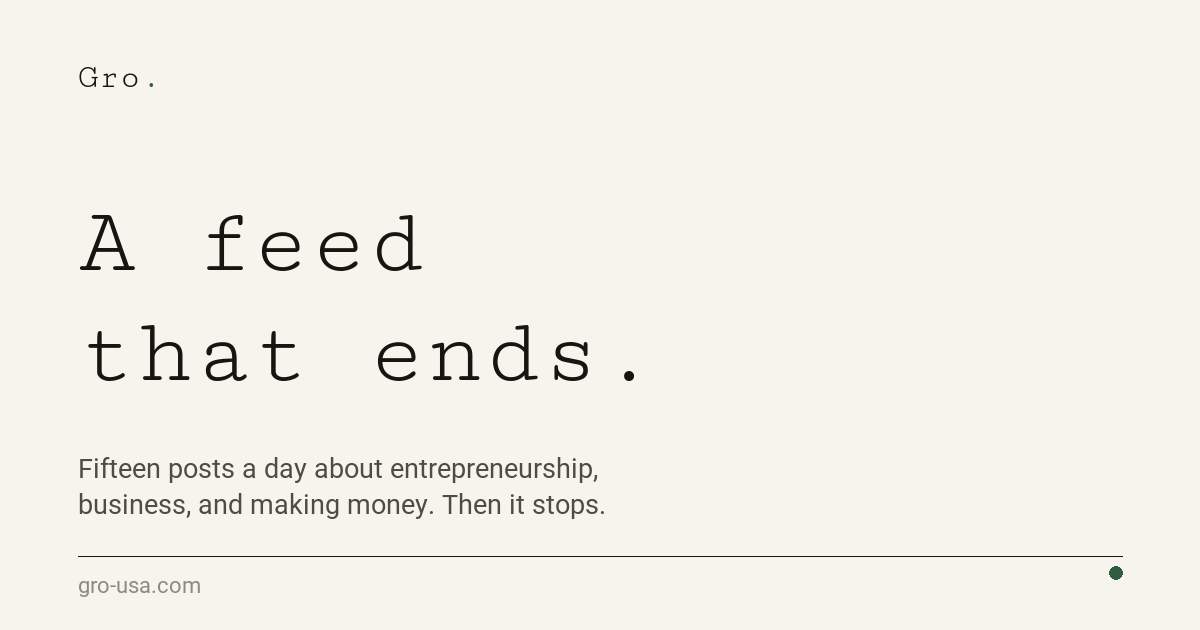
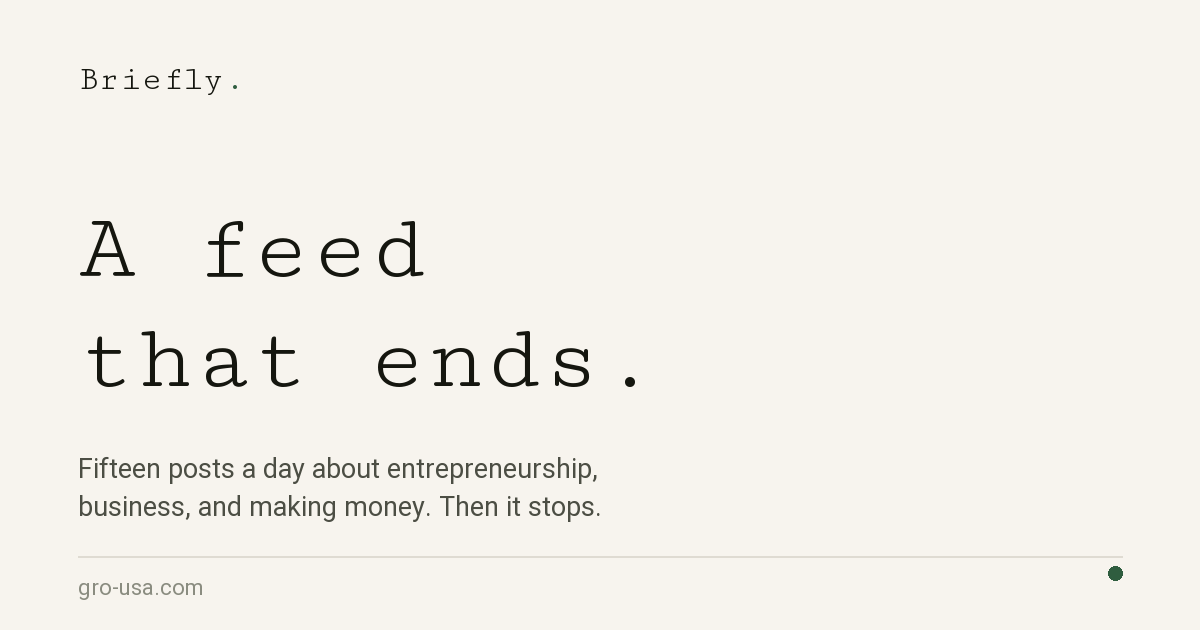
Rename the product from Gro to Briefly
Renames the brand everywhere it is read: site name and page titles,
the homepage copy, the terms and privacy text, the waitlist note,
image alt text, the confirmation email, and the docs. 61 references
in all.

Deliberately not renamed, because these are live infrastructure and
renaming them breaks things rather than rebranding them: the
gro-usa.com domain and CNAME, gro.foundation26@gmail.com, the
gro-waitlist Worker and its grolaunch.workers.dev endpoint, and the
gro:waitlist-joined localStorage key — changing that last one would
make everyone who already signed up see the form again.

The social card and favicon are regenerated from the site's own
fonts. The favicon is "B." rather than "Briefly.", which would not
be legible at 16px.

diff --git a/src/content/terms.html b/src/content/terms.html
@@ -3,8 +3,8 @@
   <p class="meta">Last updated September 9, 2026</p>
     <section>
       <h2>Who this is between</h2>
-      <p>You and Camden Brown and Kasen Afflerbach, the two people who make Gro. &quot;We&quot; and &quot;us&quot; means them.</p>
-      <p>Making an account or using the app means you agree to this. If you do not, that is completely fine — just do not use Gro.</p>
+      <p>You and Camden Brown and Kasen Afflerbach, the two people who make Briefly. &quot;We&quot; and &quot;us&quot; means them.</p>
+      <p>Making an account or using the app means you agree to this. If you do not, that is completely fine — just do not use Briefly.</p>
     </section>
     <section>
       <h2>How old you have to be</h2>
@@ -19,14 +19,14 @@
       </ul>
     </section>
     <section>
-      <h2>What Gro is</h2>
+      <h2>What Briefly is</h2>
       <p>A short feed of cards from a small number of people who are building things, which then ends. The ending is the point.</p>
       <p>Only accounts we have specifically given posting rights to can post. There is no way to apply and no queue you are in — not being able to post is how it is meant to work, not a fault.</p>
       <p>We might change how the app works, add things, take things away, or stop running it altogether. We are not going to dress this up as a service with guarantees behind it: it is free, it is early, and it will sometimes break.</p>
     </section>
     <section>
       <h2>What not to post</h2>
-      <p>This covers everything you put into Gro — comments, your name, your bio, your photo, and posts. Do not use it for:</p>
+      <p>This covers everything you put into Briefly — comments, your name, your bio, your photo, and posts. Do not use it for:</p>
       <ul>
         <li>Harassment, bullying, hate speech, or slurs aimed at anyone — including for their race, ethnicity, where they are from, religion, disability, sex, gender identity or sexuality.</li>
         <li>Threats, or anything encouraging violence or self-harm.</li>
@@ -41,7 +41,7 @@
     </section>
     <section>
       <h2>None of this is financial advice</h2>
-      <p>Gro is people describing what happened to them while trying to build something. That is experience. It is not advice.</p>
+      <p>Briefly is people describing what happened to them while trying to build something. That is experience. It is not advice.</p>
       <p>Nothing here is financial, investment, tax, legal or business advice, and nobody posting is your adviser. What you do with your money is your decision and your risk. If it is a decision that matters, talk to someone qualified — genuinely.</p>
     </section>
     <section>
@@ -53,12 +53,12 @@
     <section>
       <h2>What you post stays yours</h2>
       <p>You own what you write and what you upload. You are not signing it over to us and we will never claim it.</p>
-      <p>You do give us permission to store it, show it inside Gro, and make the copies that requires — a resized photo, a still from the first frame of a video. That permission costs nothing, exists only so the app can display your own post back to you and to other people, and ends when you delete the post or your account.</p>
-      <p>You are confirming that what you post is yours to post, and that showing it in Gro does not tread on anybody else’s rights.</p>
+      <p>You do give us permission to store it, show it inside Briefly, and make the copies that requires — a resized photo, a still from the first frame of a video. That permission costs nothing, exists only so the app can display your own post back to you and to other people, and ends when you delete the post or your account.</p>
+      <p>You are confirming that what you post is yours to post, and that showing it in Briefly does not tread on anybody else’s rights.</p>
     </section>
     <section>
       <h2>If someone copies your work</h2>
-      <p>If something in Gro infringes your copyright, email gro.foundation26@gmail.com and tell us: what the work is, where in the app the copy is, your contact details, and a statement that you believe in good faith it is not authorised and that what you are telling us is accurate.</p>
+      <p>If something in Briefly infringes your copyright, email gro.foundation26@gmail.com and tell us: what the work is, where in the app the copy is, your contact details, and a statement that you believe in good faith it is not authorised and that what you are telling us is accurate.</p>
       <p>We will look at it and take down anything that should not be there. We can also remove accounts that keep doing it. If your post was removed and you think that was wrong, reply to us and say so — a person reads it, not a system.</p>
     </section>
     <section>
@@ -67,40 +67,40 @@
     </section>
     <section>
       <h2>Our side of it</h2>
-      <p>The app itself — the name, the design, the code, the words we wrote — is ours. Using Gro does not give you the right to take any of that and use it somewhere else.</p>
+      <p>The app itself — the name, the design, the code, the words we wrote — is ours. Using Briefly does not give you the right to take any of that and use it somewhere else.</p>
     </section>
     <section>
       <h2>Ending it</h2>
       <p>You can leave whenever you like: You tab, then Delete my account. It removes your account and everything attached to it, and there is no undo.</p>
-      <p>We can end your access if you break these rules, or if we stop running Gro. When we remove an account, its posts and comments go with it — we do not keep the content of someone we have removed.</p>
-      <p>If we shut Gro down we will try to give you warning. A free app made by two people is not in a position to promise you a notice period, and promising one we might not manage would be worth less than saying this.</p>
+      <p>We can end your access if you break these rules, or if we stop running Briefly. When we remove an account, its posts and comments go with it — we do not keep the content of someone we have removed.</p>
+      <p>If we shut Briefly down we will try to give you warning. A free app made by two people is not in a position to promise you a notice period, and promising one we might not manage would be worth less than saying this.</p>
     </section>
     <section>
       <h2>What we do not promise</h2>
-      <p>Gro comes as it is. We do not promise it will be available, correct, uninterrupted, or right for whatever you have in mind, and we are disclaiming the warranties the law lets us disclaim.</p>
+      <p>Briefly comes as it is. We do not promise it will be available, correct, uninterrupted, or right for whatever you have in mind, and we are disclaiming the warranties the law lets us disclaim.</p>
       <p>We do not check whether what other people post is true. What is in a post belongs to whoever posted it, not to us.</p>
     </section>
     <section>
       <h2>Where our responsibility stops</h2>
-      <p>As far as the law allows: we are not liable for indirect, incidental, special or knock-on losses, or for lost profits, lost opportunities or lost data, from your use of Gro.</p>
-      <p>Where liability cannot be excluded at all, it is capped at whichever is greater — what you have paid us, which is nothing, because Gro is free — or ten US dollars.</p>
+      <p>As far as the law allows: we are not liable for indirect, incidental, special or knock-on losses, or for lost profits, lost opportunities or lost data, from your use of Briefly.</p>
+      <p>Where liability cannot be excluded at all, it is capped at whichever is greater — what you have paid us, which is nothing, because Briefly is free — or ten US dollars.</p>
       <p>Some places do not allow limits like these. If you are in one of them, they do not apply to you, and nothing here takes away a right you have that cannot be signed away.</p>
     </section>
     <section>
       <h2>If you get us into trouble</h2>
-      <p>If something you post or do in Gro lands us with a legal claim from someone else — you posted something that was not yours, or you used the app to do something you should not have — you agree to cover us for it.</p>
+      <p>If something you post or do in Briefly lands us with a legal claim from someone else — you posted something that was not yours, or you used the app to do something you should not have — you agree to cover us for it.</p>
       <p>This is not aimed at ordinary use. Nobody is coming after you for a comment somebody disagreed with.</p>
     </section>
     <section>
       <h2>What Apple has to do with this</h2>
-      <p>If you got Gro from the App Store, Apple asks us to spell this out, and it is worth knowing anyway:</p>
+      <p>If you got Briefly from the App Store, Apple asks us to spell this out, and it is worth knowing anyway:</p>
       <ul>
-        <li>This agreement is between you and us. It is not with Apple, and Apple is not responsible for Gro or anything in it.</li>
-        <li>Your licence to use Gro covers Apple-branded devices you own or control, under Apple’s usage rules.</li>
-        <li>Apple has no obligation to provide any support or maintenance for Gro. If you need help, come to us.</li>
-        <li>If Gro fails to work as promised, you can tell Apple and Apple will refund what you paid for it — which is nothing. Beyond that refund, Apple has no warranty obligation, and anything else is down to us.</li>
+        <li>This agreement is between you and us. It is not with Apple, and Apple is not responsible for Briefly or anything in it.</li>
+        <li>Your licence to use Briefly covers Apple-branded devices you own or control, under Apple’s usage rules.</li>
+        <li>Apple has no obligation to provide any support or maintenance for Briefly. If you need help, come to us.</li>
+        <li>If Briefly fails to work as promised, you can tell Apple and Apple will refund what you paid for it — which is nothing. Beyond that refund, Apple has no warranty obligation, and anything else is down to us.</li>
         <li>We, not Apple, are responsible for dealing with any claim about the app: product liability, a legal or regulatory problem, or consumer protection.</li>
-        <li>We, not Apple, are responsible if someone claims Gro infringes their intellectual property.</li>
+        <li>We, not Apple, are responsible if someone claims Briefly infringes their intellectual property.</li>
         <li>You confirm you are not in a country the US has embargoed or designated as supporting terrorism, and are not on a US list of prohibited or restricted parties.</li>
         <li>Questions or complaints about the app go to gro.foundation26@gmail.com.</li>
         <li>Apple and its subsidiaries can enforce these terms against you as a third-party beneficiary of them.</li>
@@ -117,19 +117,19 @@
       <ul>
         <li>If a court decides one part of this does not hold up, the rest still does. The unenforceable bit gets narrowed to whatever is allowed, and everything else carries on.</li>
         <li>If we do not enforce something straight away, we have not given up the right to enforce it later.</li>
-        <li>If Gro is sold or handed on, this agreement goes with it. You cannot transfer yours to someone else.</li>
-        <li>This page and the Privacy Policy are the whole agreement between us about Gro, and they replace anything either of us said before.</li>
+        <li>If Briefly is sold or handed on, this agreement goes with it. You cannot transfer yours to someone else.</li>
+        <li>This page and the Privacy Policy are the whole agreement between us about Briefly, and they replace anything either of us said before.</li>
       </ul>
     </section>
     <section>
       <h2>When this page changes</h2>
-      <p>Last updated September 9, 2026. If we change these terms the date changes with them and the copy in the app updates at the same time. Carrying on using Gro after a change means you are fine with the new version; if you are not, delete your account and nothing is held against you.</p>
+      <p>Last updated September 9, 2026. If we change these terms the date changes with them and the copy in the app updates at the same time. Carrying on using Briefly after a change means you are fine with the new version; if you are not, delete your account and nothing is held against you.</p>
     </section>
     <section>
       <h2>Talk to us</h2>
       <p>gro.foundation26@gmail.com — it reaches both of us.</p>
     </section>
   <footer>
-    Gro is operated by Camden Brown and Kasen Afflerbach. This page is also available inside
+    Briefly is operated by Camden Brown and Kasen Afflerbach. This page is also available inside
     the app, under You.
   </footer>

diff --git a/src/content/privacy.html b/src/content/privacy.html
@@ -1,16 +1,16 @@
 <h1>Privacy Policy</h1>
-  <p class="summary">What Gro knows about you, who else sees it, and how to get rid of it.</p>
+  <p class="summary">What Briefly knows about you, who else sees it, and how to get rid of it.</p>
   <p class="meta">Last updated September 9, 2026</p>
     <section>
       <h2>The short version</h2>
-      <p>Gro is a small app made by two people, Camden Brown and Kasen Afflerbach. We collect what the app needs to work, and nothing else.</p>
+      <p>Briefly is a small app made by two people, Camden Brown and Kasen Afflerbach. We collect what the app needs to work, and nothing else.</p>
       <p>No ads. No analytics. Nothing in the app follows you around or reports back on what you looked at. We have never sold anyone’s information and we are not going to start.</p>
       <p>You can delete your account, and everything attached to it, from inside the app whenever you want. It takes two taps and there is no &quot;are you sure you want to lose all this&quot; guilt trip.</p>
       <p>The rest of this page is the detail. It is longer than the summary because being specific is the only way to be honest, not because there is a catch buried in it.</p>
     </section>
     <section>
       <h2>Who we are</h2>
-      <p>Gro is run by Camden Brown and Kasen Afflerbach, based in Texas, in the United States. Write to us at gro.foundation26@gmail.com — it reaches both of us, and the same address is on the You tab in the app.</p>
+      <p>Briefly is run by Camden Brown and Kasen Afflerbach, based in Texas, in the United States. Write to us at gro.foundation26@gmail.com — it reaches both of us, and the same address is on the You tab in the app.</p>
       <p>We decide what happens to your information, which also makes us the two people responsible for it. There is no team behind us and no support desk. If something is wrong, you are emailing the people who can fix it.</p>
     </section>
     <section>
@@ -53,7 +53,7 @@
       <p>That is the whole of it. We do not know where you are — the app never asks for your location and there is no code in it that could work it out. We do not read your contacts, your calendar, your photo library beyond the files you pick, or anything else on your phone.</p>
     </section>
     <section>
-      <h2>What Gro keeps on your phone</h2>
+      <h2>What Briefly keeps on your phone</h2>
       <p>Three small things live on your device rather than on our servers:</p>
       <ul>
         <li>A sign-in token, so you are not asked for your password every time you open the app.</li>
@@ -64,13 +64,13 @@
     </section>
     <section>
       <h2>Who can see what</h2>
-      <p>Anyone signed in to Gro can see your name, your photo, your bio, your comments and — if you are one of the two accounts that post — your posts. Treat all of that as public, because it is.</p>
+      <p>Anyone signed in to Briefly can see your name, your photo, your bio, your comments and — if you are one of the two accounts that post — your posts. Treat all of that as public, because it is.</p>
       <p>Your email address is never shown to another user. Your password is never shown to anyone, us included. The answers you gave when you signed up are not on your profile.</p>
       <p>None of it is visible without an account. There is no public web page with your profile or your posts on it, and search engines have nothing of yours to find.</p>
     </section>
     <section>
       <h2>The companies that help us run it</h2>
-      <p>We use a handful of services to run Gro. Each one gets only the part it needs, is not allowed to use it for anything of its own, and is required by its agreement with us to protect it at least as well as this policy promises.</p>
+      <p>We use a handful of services to run Briefly. Each one gets only the part it needs, is not allowed to use it for anything of its own, and is required by its agreement with us to protect it at least as well as this policy promises.</p>
       <ul>
         <li>Supabase — runs the database, the sign-in system and the file storage. It holds everything listed above. The data sits in the United States, in Amazon Web Services’ Oregon region.</li>
         <li>Resend — sends the account emails. It gets your email address and what is in the message, such as a sign-in code.</li>
@@ -78,16 +78,16 @@
         <li>Apple and Google — distribute the app through their stores. What they collect as the shop you downloaded it from is covered by their policies, not ours.</li>
       </ul>
       <p>That is the complete list. Nobody else gets your information: no advertisers, no data brokers, no &quot;partners&quot;. We do not sell it and we do not trade it.</p>
-      <p>If Gro is ever sold or handed on, whoever takes it over would be bound by this policy until they told you otherwise, and we would tell you before it happened.</p>
+      <p>If Briefly is ever sold or handed on, whoever takes it over would be bound by this policy until they told you otherwise, and we would tell you before it happened.</p>
     </section>
     <section>
       <h2>We do not track you</h2>
-      <p>Nothing in Gro links what you do here to anything you do anywhere else. There are no advertising identifiers, no tracking pixels, no analytics tools, and no data brokers involved at any point.</p>
+      <p>Nothing in Briefly links what you do here to anything you do anywhere else. There are no advertising identifiers, no tracking pixels, no analytics tools, and no data brokers involved at any point.</p>
       <p>That is why the app never shows you the &quot;allow tracking?&quot; prompt. There would be nothing to ask about.</p>
     </section>
     <section>
       <h2>Where your information lives</h2>
-      <p>On servers in the United States. If you are using Gro from somewhere else — the United Kingdom, the European Union, anywhere — your information is being sent to and stored in the US, where the privacy laws are not the same as the ones at home.</p>
+      <p>On servers in the United States. If you are using Briefly from somewhere else — the United Kingdom, the European Union, anywhere — your information is being sent to and stored in the US, where the privacy laws are not the same as the ones at home.</p>
       <p>We do not have a legal office or an international data transfer department. What we can tell you is exactly what is collected, exactly where it goes, and how to remove it, which is what this page is for.</p>
     </section>
     <section>
@@ -136,12 +136,12 @@
     </section>
     <section>
       <h2>If you are under 18</h2>
-      <p>You need to be at least 13 to use Gro. If you live somewhere that sets a higher age for signing up to something like this without a parent, that age applies to you instead.</p>
+      <p>You need to be at least 13 to use Briefly. If you live somewhere that sets a higher age for signing up to something like this without a parent, that age applies to you instead.</p>
       <p>We do not knowingly collect anything from anyone under 13. If we find out an account belongs to someone younger, we delete it and everything attached to it. If you think a child has an account here, email gro.foundation26@gmail.com and we will deal with it quickly.</p>
     </section>
     <section>
       <h2>Links to other places</h2>
-      <p>A profile can carry a website link, and posts can mention things. Tapping one takes you off Gro and onto somebody else’s site, which has its own rules and its own privacy policy. We have no control over those and we are not responsible for them.</p>
+      <p>A profile can carry a website link, and posts can mention things. Tapping one takes you off Briefly and onto somebody else’s site, which has its own rules and its own privacy policy. We have no control over those and we are not responsible for them.</p>
     </section>
     <section>
       <h2>Keeping it safe</h2>
@@ -163,6 +163,6 @@
       <p>gro.foundation26@gmail.com. Questions, requests, or something you have seen in the app that needs looking at. It reaches both of us and we read it.</p>
     </section>
   <footer>
-    Gro is operated by Camden Brown and Kasen Afflerbach. This page is also available inside
+    Briefly is operated by Camden Brown and Kasen Afflerbach. This page is also available inside
     the app, under You.
   </footer>

diff --git a/worker/waitlist.js b/worker/waitlist.js
@@ -1,5 +1,5 @@
 /**
- * Gro — waitlist and feature-request Worker
+ * Briefly — waitlist and feature-request Worker
  *
  * Two routes:
  *   POST /          { email, source }            → save contact + send confirmation
@@ -14,7 +14,7 @@
  *
  * Everything else lives in wrangler.jsonc, because `wrangler deploy`
  * overwrites dashboard variables:
- *   FROM         sender, e.g.  Gro <hello@gro-usa.com>
+ *   FROM         sender, e.g.  Briefly <hello@gro-usa.com>
  *   REQUEST_TO   where feature requests land
  *   SEGMENT_ID   optional Resend segment to file contacts under
  */
@@ -54,12 +54,12 @@ const escapeHtml = (value) =>
 const confirmationText = `You're on the list.
 
 That's it — no drip sequence, no weekly newsletter. One more email from us,
-when Gro opens.
+when Briefly opens.
 
 Fifteen posts a day about entrepreneurship, business, and making money.
 Then it stops.
 
-— Gro
+— Briefly
 https://gro-usa.com
 `;
 
@@ -71,14 +71,14 @@ const confirmationHtml = `<!doctype html>
     <tr><td align="center" style="padding:40px 20px;">
       <table role="presentation" width="100%" cellpadding="0" cellspacing="0" border="0" style="max-width:480px;">
         <tr><td style="padding-bottom:28px;font-family:'Courier New',Courier,monospace;font-size:22px;color:#15160f;">
-          Gro<span style="color:#2f5d3f;">.</span>
+          Briefly<span style="color:#2f5d3f;">.</span>
         </td></tr>
         <tr><td style="font-family:'Courier New',Courier,monospace;font-size:28px;line-height:1.25;color:#15160f;padding-bottom:20px;">
           You're on the list.
         </td></tr>
         <tr><td style="font-family:Helvetica,Arial,sans-serif;font-size:15px;line-height:1.6;color:#4c4e44;padding-bottom:14px;">
           That's it &mdash; no drip sequence, no weekly newsletter. One more email
-          from us, when Gro opens.
+          from us, when Briefly opens.
         </td></tr>
         <tr><td style="font-family:Helvetica,Arial,sans-serif;font-size:15px;line-height:1.6;color:#4c4e44;padding-bottom:28px;">
           Fifteen posts a day about entrepreneurship, business, and making money.
@@ -112,7 +112,7 @@ async function sendEmail(env, payload) {
       Authorization: `Bearer ${env.RESEND_API_KEY}`,
       'Content-Type': 'application/json',
     },
-    body: JSON.stringify({ from: env.FROM || 'Gro <hello@gro-usa.com>', ...payload }),
+    body: JSON.stringify({ from: env.FROM || 'Briefly <hello@gro-usa.com>', ...payload }),
   });
 }
 
@@ -150,7 +150,7 @@ async function handleWaitlist(data, env, cors) {
   //    goes out, the visitor should not be told they are on the list.
   const sent = await sendEmail(env, {
     to: email,
-    subject: "You're on the Gro waitlist",
+    subject: "You're on the Briefly waitlist",
     html: confirmationHtml,
     text: confirmationText,
   });

diff --git a/src/config.ts b/src/config.ts
@@ -4,9 +4,9 @@
  */
 
 export const site = {
-  name: 'Gro',
+  name: 'Briefly',
   /** Shows up in the browser tab and in link previews. */
-  title: 'Gro — a feed that ends',
+  title: 'Briefly — a feed that ends',
   description:
     'Fifteen posts a day about entrepreneurship, business, and making money. Then it stops — no infinite scroll, no algorithm learning what keeps you here.',
 } as const;
@@ -92,20 +92,20 @@ export type Shot = {
  */
 export const heroShot: Shot = {
   src: '/screenshots/feed.png',
-  alt: 'A post in the Gro feed, from a founder, with a like and topic tags.',
+  alt: 'A post in the Briefly feed, from a founder, with a like and topic tags.',
   placeholder: 'the feed',
 };
 
 export const shots: readonly Shot[] = [
   {
     src: '/screenshots/feed.png',
-    alt: 'A post in the Gro feed, from a founder, with a like and topic tags.',
+    alt: 'A post in the Briefly feed, from a founder, with a like and topic tags.',
     caption: 'One idea per card',
     placeholder: 'the feed',
   },
   {
     src: '/screenshots/profile.png',
-    alt: 'A Gro profile showing what that person is chasing and what they are building.',
+    alt: 'A Briefly profile showing what that person is chasing and what they are building.',
     caption: 'Only entrepreneurs post',
     placeholder: 'a profile',
   },

diff --git a/src/styles/global.css b/src/styles/global.css
@@ -29,7 +29,7 @@
 }
 
 /* ---------------------------------------------------------------
-   Gro — design tokens + base styles
+   Briefly — design tokens + base styles
    Light is the primary look (warm paper). Dark follows the OS.
    --------------------------------------------------------------- */
 

diff --git a/README.md b/README.md
@@ -1,6 +1,6 @@
-# Gro — launch page
+# Briefly — launch page
 
-A one-page waitlist site for Gro, built with [Astro](https://astro.build) + TypeScript.
+A one-page waitlist site for Briefly, built with [Astro](https://astro.build) + TypeScript.
 Static output, no backend, no build-time API keys.
 
 ## Run it
